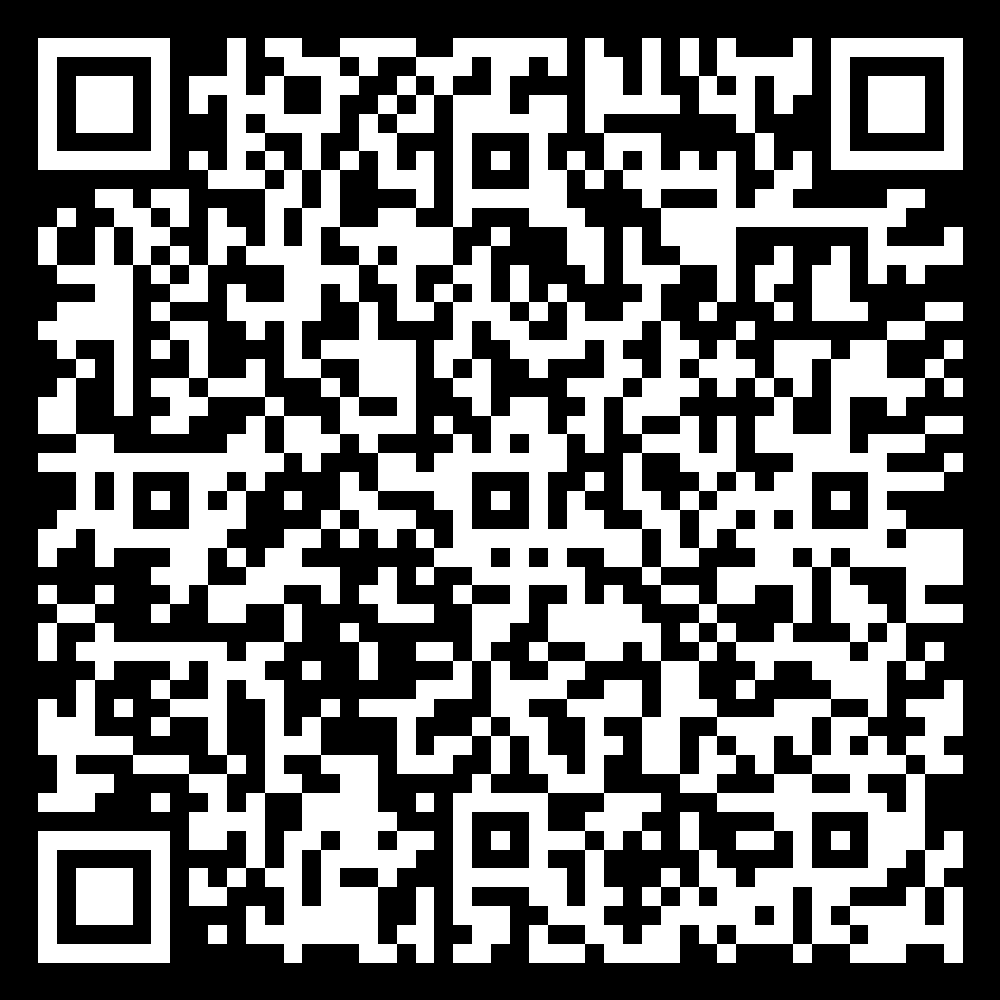
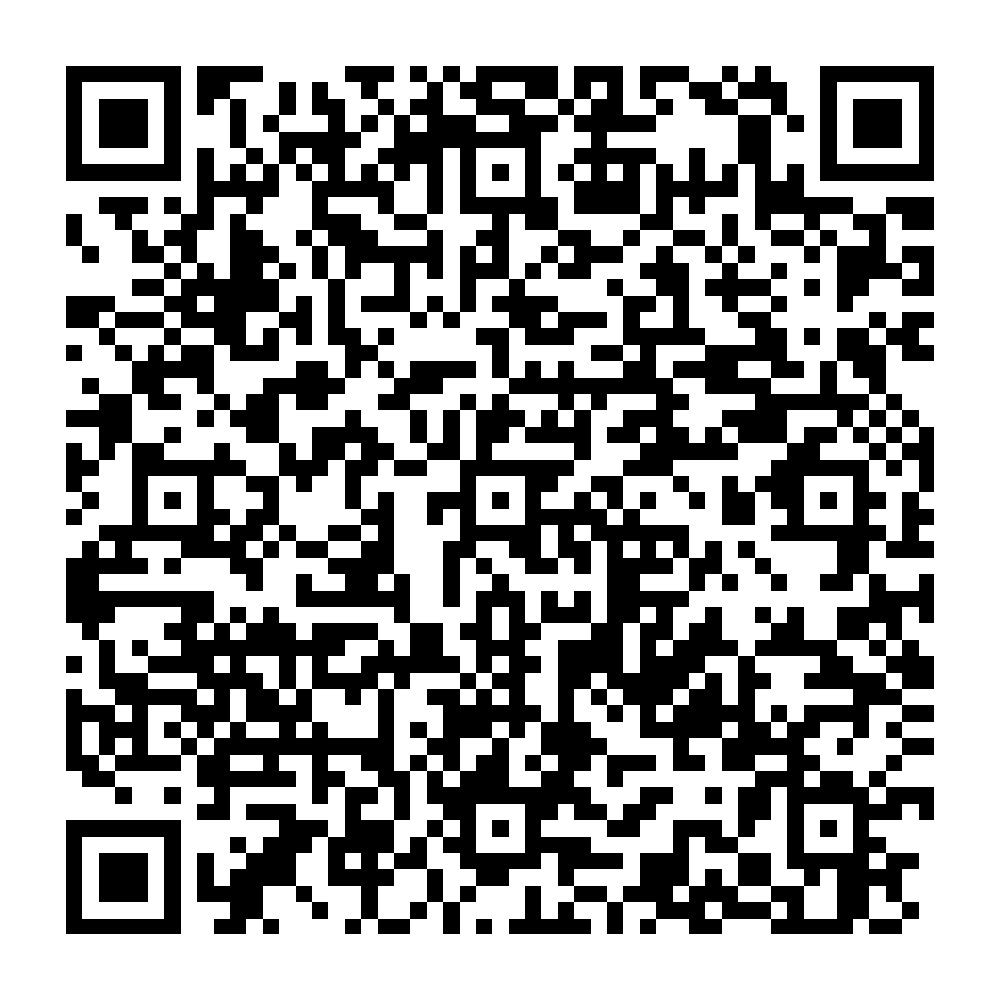
fix(qr): regenerate with standard black-on-white colors for universal scanner compatibility

diff --git a/scripts/generate-qr-codes.ts b/scripts/generate-qr-codes.ts
@@ -32,10 +32,10 @@ async function generateQrCodes(): Promise<void> {
       width: 1000,
       errorCorrectionLevel: 'H',
       color: {
-        dark: '#FFFFFF',  // white modules
-        light: '#000000', // black background
+        dark: '#000000',  // black modules — standard, universally scannable
+        light: '#FFFFFF', // white background
       },
-      margin: 2,
+      margin: 4,
     });
 
     console.log(`✓ Generated: public/qr-codes/${filename}`);
